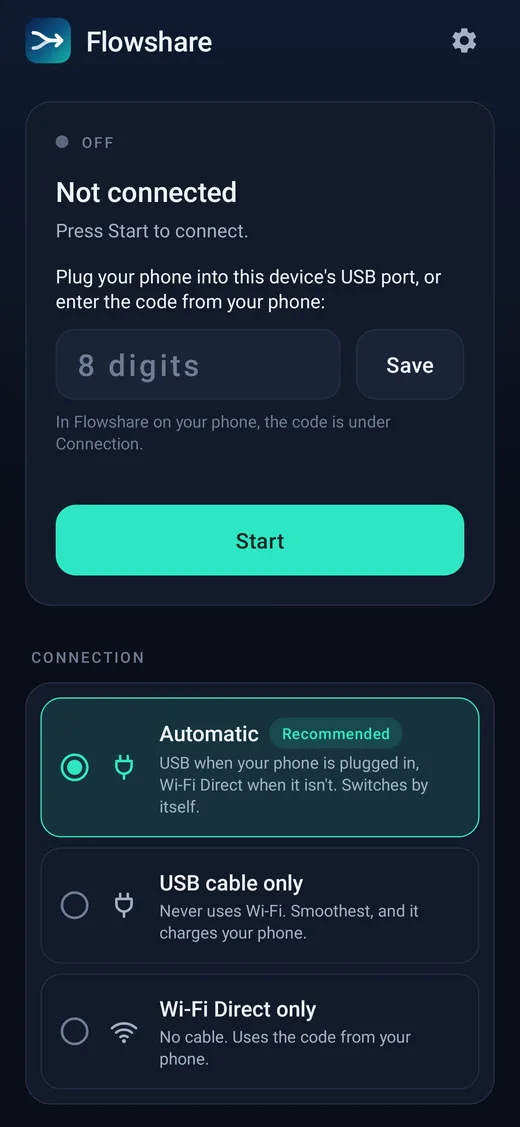
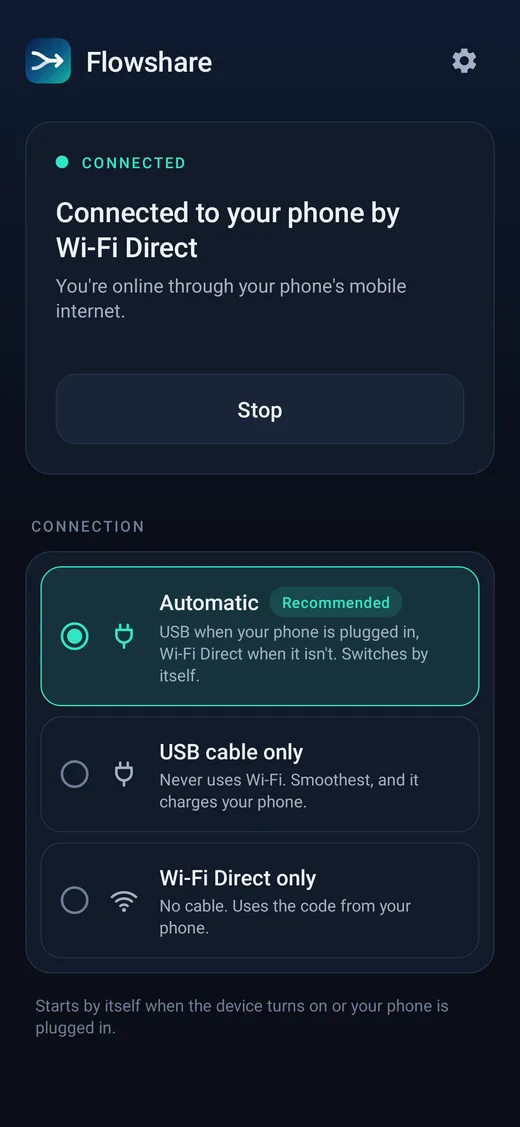
Show Windows and phone-to-phone instead of TV

diff --git a/index.html b/index.html
@@ -62,7 +62,7 @@ h3{font-size:19px;margin:0 0 8px;letter-spacing:-.01em}
 .step .n{position:absolute;top:22px;left:26px;width:30px;height:30px;border-radius:50%;background:var(--teal);color:#03211C;font-weight:700;display:grid;place-items:center;font-size:15px}
 .flow{margin:0 0 36px;background:var(--card);border:1px solid var(--line);border-radius:var(--radius);padding:20px}
 .flow svg{width:100%;height:auto;display:block}
-.gallery{display:grid;grid-template-columns:2fr 1fr 1fr;gap:20px;align-items:start}
+.gallery{display:grid;grid-template-columns:1fr 1fr 1fr;gap:20px;align-items:start}
 .gallery figure{margin:0}
 .gallery img{border-radius:14px;border:1px solid var(--line)}
 .gallery figcaption{color:var(--muted);font-size:14px;margin-top:10px}
@@ -117,7 +117,7 @@ footer .disc{max-width:60em;margin-top:22px;font-size:13px;line-height:1.6}
  .hero .wrap{grid-template-columns:1fr}
  .grid3,.exp{grid-template-columns:1fr 1fr}
  .gallery{grid-template-columns:1fr 1fr}
- .gallery .tvcol{grid-column:1/-1}
+ .gallery .tvcol{grid-column:auto}
  nav.links a:not(.btn){display:none}
 }
 @media (max-width:600px){
@@ -154,8 +154,8 @@ footer .disc{max-width:60em;margin-top:22px;font-size:13px;line-height:1.6}
   <ul class="trust"><li>No accounts</li><li>No ads</li><li>No VPN server</li><li>Free to try</li></ul>
  </div>
  <div class="shots">
-  <img class="tv" src="img/tv-connected.webp" width="1280" height="720" alt="Flowshare on a TV, showing Connected to your phone by Wi-Fi Direct with Automatic mode selected">
-  <img class="phone" src="img/phone-sharing.webp" width="520" height="1127" alt="Flowshare on a phone, waiting for the TV with Automatic mode and an 8-digit code for the TV" loading="lazy">
+  <img class="tv" src="img/hero.webp" width="1280" height="720" alt="Flowshare on a Windows PC and on a second Android phone, both online through the sharing phone">
+  <img class="phone" src="img/phone-sharing.webp" width="520" height="1127" alt="Flowshare on the sharing phone, with Automatic mode and a pairing code" loading="lazy">
  </div>
 </div></section>
 
@@ -215,14 +215,14 @@ footer .disc{max-width:60em;margin-top:22px;font-size:13px;line-height:1.6}
 
 <section class="alt" aria-labelledby="screens-h"><div class="wrap">
  <span class="eyebrow">Screens</span>
- <h2 id="screens-h">Simple on the TV. Clear on the phone.</h2>
- <p class="sub">Big, readable status on the TV for the remote, and everything you need on the phone.</p>
+ <h2 id="screens-h">Clear on every screen.</h2>
+ <p class="sub">Share from your phone; get online on a second phone, a tablet, a Windows PC or a TV.</p>
  <div class="gallery">
   <div class="tvcol">
-   <figure><img src="img/tv-code.webp" width="1280" height="720" loading="lazy" alt="TV screen waiting for the phone, with a field to enter the Wi-Fi Direct code"><figcaption>TV: waiting for your phone, with the Wi-Fi Direct code.</figcaption></figure>
+   <figure><img src="img/windows.webp" width="520" height="837" loading="lazy" alt="Flowshare for Windows, connected to the phone by USB"><figcaption>Windows: online through your phone by USB (in development).</figcaption></figure>
   </div>
-  <figure class="phonefig"><img src="img/phone-sharing.webp" width="520" height="1127" loading="lazy" alt="Phone sharing screen with connection mode and the TV code"><figcaption>Phone: sharing, with mode and TV code.</figcaption></figure>
-  <figure class="phonefig"><img src="img/phone-receive.webp" width="520" height="1127" loading="lazy" alt="Phone in receive mode, getting online through another phone"><figcaption>Receive on a tablet or second phone too.</figcaption></figure>
+  <figure class="phonefig"><img src="img/phone-sharing.webp" width="520" height="1127" loading="lazy" alt="Phone sharing screen with connection mode and pairing code"><figcaption>Phone: sharing, with mode and TV code.</figcaption></figure>
+  <figure class="phonefig"><img src="img/phone-receive.webp" width="520" height="1127" loading="lazy" alt="Phone in receive mode, getting online through another phone"><figcaption>A second phone or tablet, online through the first.</figcaption></figure>
  </div>
 </div></section>
 
